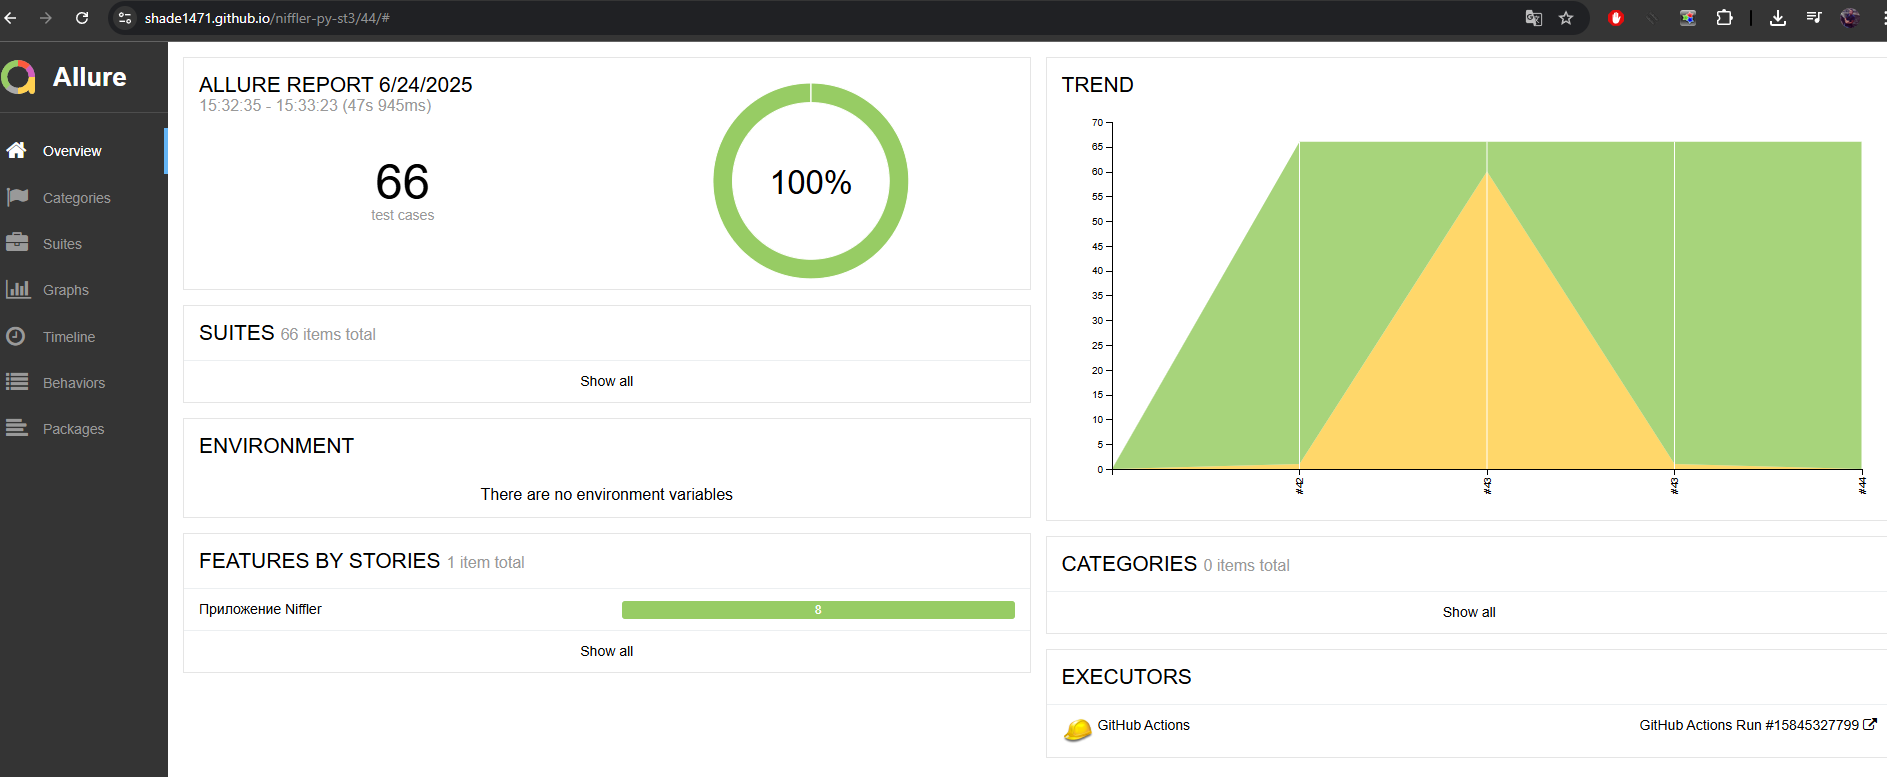
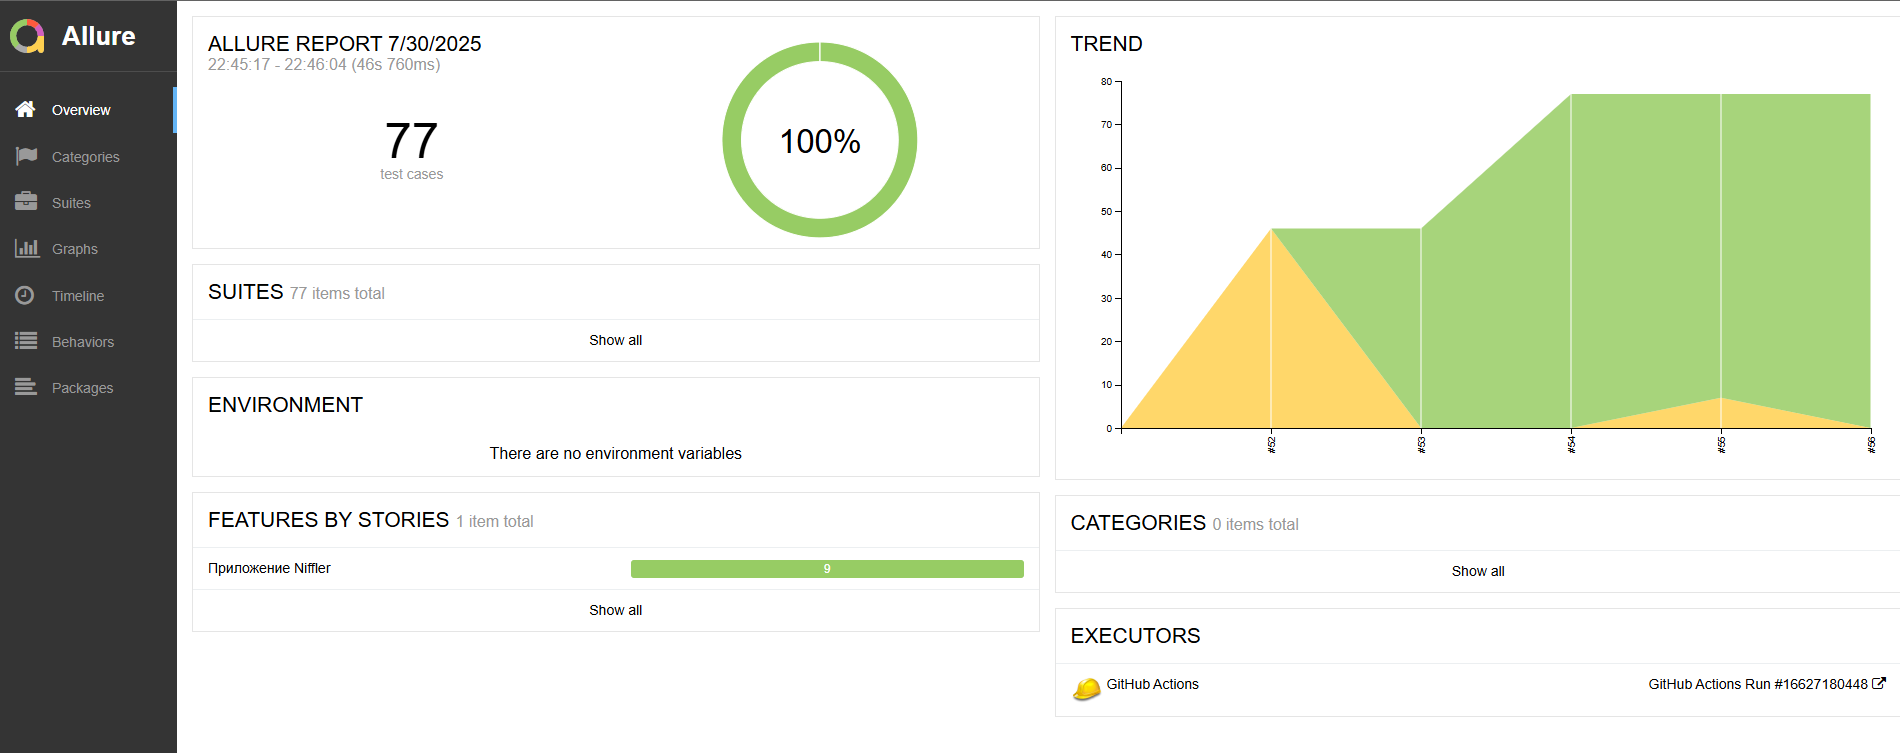
edit readme

diff --git a/README.md b/README.md
@@ -143,6 +143,7 @@ Build to Docker daemon failed, perhaps you should make sure your credentials for
   <code><img src="images/pycharm.png" width="40" height="40"  alt="A-d-am" title="PyCharm"></code>
   <code><img src="images/selenium.png" width="40" height="40"  alt="A-d-am" title="Selenium"></code>
   <code><img src="images/docker.png" width="40" height="40"  alt="A-d-am" title="Docker"></code>
+  <code><img src="images/grpc.png" width="40" height="40"  alt="A-d-am" title="gRPC"></code>
 </p>
 
 ## Покрываемый функционал проекта Niffler
@@ -194,7 +195,7 @@ Build to Docker daemon failed, perhaps you should make sure your credentials for
 pytest --alluredir=[your_path_for_report] --clean-alluredir ./test
 ```
 
-#### Некоторые тестовые модули возможно выполнить с поддержкой параллельного запуска
+#### Некоторые тестовые модули возможно выполнить с поддержкой параллельного запуска:
 
 - API тесты
 - Авторизации и регистрации пользователя (UI)
@@ -212,6 +213,10 @@ pytest -n 4 --dist=worksteal --alluredir=[your_path_for_report] .\test -m parall
 ### Удаленный запуск, через реализованный CI/CD Github Actions 
  Workflow запускается для событий Pull Request (создания, добавление коммита в ветку PR, и переоткрытия PR)
 
-По результату автоматическоего прогона формируются allure отчеты с историей, с хранением в [Github Pages репозитория](https://shade1471.github.io/niffler-py-st3/)
+По результату автоматическоего прогона формируются allure отчеты с историей, с хранением в [Github Pages текущего репозитория](https://shade1471.github.io/niffler-py-st3/)
 
+#### Allure отчет в Github Pages:
 ![Allure отчет](images/img.png)
+
+#### Структура тестового набора:
+![Структура тестового набора](images/img_2.png)
